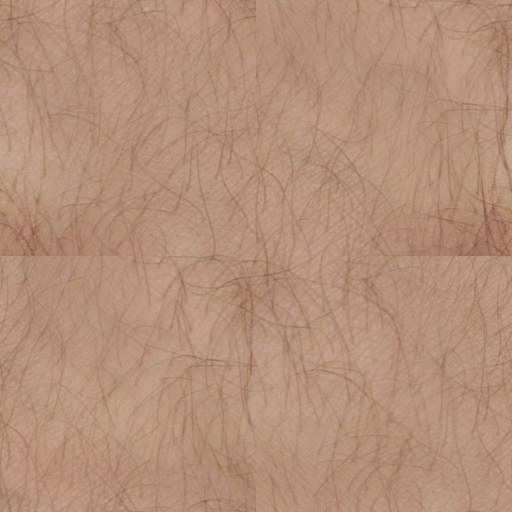
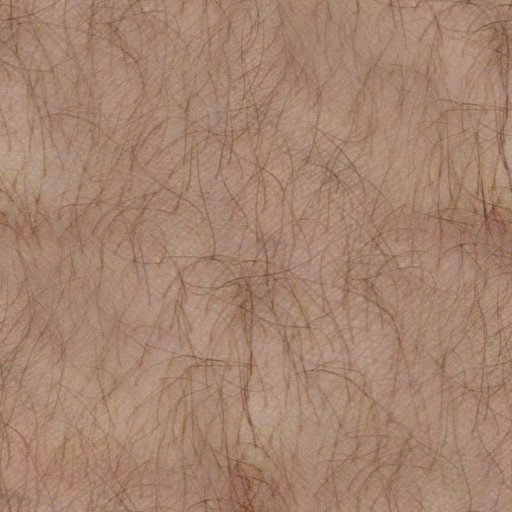
v9.2: piel de las manos sin costuras, con venas y menos brillo; tiendas de campaña tipo iglú, cajas de listones, bidón de fuego y caseta-WC nuevos
Claude-Session: https://claude.ai/code/session_015QNTawu2bc1bZiRqrmohGE

diff --git a/game.js b/game.js
@@ -1711,11 +1711,15 @@ function buildMoeve(){const lot=LOTS.find(l=>l.corner&&l.bk.i===0&&l.bk.j===3&&l
 // =====================================================================
 // BASES: Mercat del Ninot (aliados), escuela en el interior de manzana (aliados) y un Mercadona tomado por bandidos
 // =====================================================================
-defInst('tent',mkG([[(()=>{const g=new THREE.ConeGeometry(1.5,1.6,4);g.rotateY(Math.PI/4);g.translate(0,0.8,0);return g;})(),0xffffff]]),new THREE.MeshLambertMaterial({vertexColors:true}),1,1,true);
+defInst('tent',(()=>{const dome=new THREE.SphereGeometry(1,18,8,0,Math.PI*2,0,Math.PI/2);dome.scale(1.1,1.05,1.35);const ves=new THREE.SphereGeometry(1,10,6,-Math.PI/2,Math.PI,0,Math.PI/2);ves.scale(0.6,0.75,0.55);ves.translate(0,0,1.15);
+  const door=ell(0.42,0.5,0.06,0,0.42,1.66,10);const parts=[[dome,0xffffff],[ves,0xd8d8d8],[door,0x1a1a1a]];for(const a of [Math.PI/4,-Math.PI/4]){const t=new THREE.TorusGeometry(1.12,0.012,4,24,Math.PI);t.rotateY(a);t.scale(1,0.95,1.2);parts.push([t,0x222222]);}
+  for(const [x,z] of [[1.3,1.7],[-1.3,1.7],[1.3,-1.7],[-1.3,-1.7]])parts.push([tube([x*0.75,0.75,z*0.7],[x,0.0,z],0.004,3),0xbbbbbb]);return mkG(parts);})(),pbr(new THREE.MeshStandardMaterial({vertexColors:true,roughness:0.65,metalness:0})),1,1,true);
 defInst('mattress',mkG([[bx(0.9,0.18,1.9,0,0.09,0),0xd8d0c0],[bx(0.6,0.12,0.4,0,0.22,-0.7),0xf0f0f0],[bx(0.85,0.05,1.2,0,0.2,0.3),0x5a6a8a]]),plasticMat,1,1,true);
-defInst('firebarrel',mkG([[cy(0.32,0.3,0.9,0,0.45,0,12),0x5a3a2a],[cy(0.26,0.26,0.05,0,0.88,0,12),0xff7a20]]),paintMat,1,1,true);
-defInst('crate',mkG([[bx(0.9,0.7,0.9,0,0.35,0),0x6b5434],[bx(0.92,0.06,0.92,0,0.68,0),0x5a4528]]),woodPropMat,1,1,true);
-defInst('latrina',mkG([[bx(1.2,2.3,1.2,0,1.15,0),0x5a6a4a],[bx(1.3,0.08,1.3,0,2.34,0),0x3a4a2a],[bx(0.7,1.9,0.03,0,0.95,0.61),0x4a5a3a]]),plasticMat,1,1,true);
+defInst('firebarrel',mkG([[cy(0.29,0.29,0.88,0,0.44,0,16),0x6a3a22],[cy(0.3,0.3,0.03,0,0.14,0,16),0x4a2a18],[cy(0.3,0.3,0.03,0,0.44,0,16),0x4a2a18],[cy(0.3,0.3,0.03,0,0.74,0,16),0x4a2a18],[cy(0.27,0.27,0.02,0,0.86,0,16),0xff8a2a],
+  ...[0,1,2,3,4,5].map(k=>[bx(0.06,0.04,0.12,Math.cos(k)*0.22,0.9,Math.sin(k)*0.22,0,k,0.3),0x2a1a10]),[ell(0.08,0.1,0.06,0.18,0.25,0.24,6),0x1a1008]]),metalMat,1,1,true);
+defInst('crate',mkG([...[0.08,0.3,0.52].flatMap(y=>[[bx(0.9,0.18,0.03,0,y+0.09,0.44),0x7b6440],[bx(0.9,0.18,0.03,0,y+0.09,-0.44),0x6e5838],[bx(0.03,0.18,0.86,0.44,y+0.09,0),0x735c3a],[bx(0.03,0.18,0.86,-0.44,y+0.09,0),0x7b6440]]),
+  ...[-0.42,0.42].flatMap(x=>[[bx(0.06,0.7,0.06,x,0.35,0.42),0x5a4528],[bx(0.06,0.7,0.06,x,0.35,-0.42),0x5a4528]]),[bx(0.86,0.02,0.86,0,0.03,0),0x5a4528],[bx(0.88,0.03,0.2,0,0.71,-0.2),0x6b5434],[bx(0.88,0.03,0.2,0,0.71,0.22),0x7b6440]]),woodPropMat,1,1,true);
+defInst('latrina',mkG([[bx(1.15,2.2,1.15,0,1.1,0),0x2a5a8a],[bx(1.25,0.1,1.25,0,2.25,0),0xd8d8d0],[bx(0.75,1.95,0.04,0,1.0,0.59),0x24507a],[bx(0.1,0.04,0.04,0.28,1.05,0.62),0x111111],[bx(0.2,0.08,0.02,0,1.75,0.615),0xd03020],[cy(0.05,0.05,0.35,0.4,2.4,-0.4,6),0x333333],[bx(0.6,0.03,0.04,0,2.05,0.6),0xd8d8d0]]),plasticMat,1,1,true);
 defInst('mesa',mkG([[bx(1.8,0.05,0.8,0,0.75,0),0x8a6a42],[bx(0.05,0.75,0.05,-0.85,0.37,-0.35),0x555555],[bx(0.05,0.75,0.05,0.85,0.37,-0.35),0x555555],[bx(0.05,0.75,0.05,-0.85,0.37,0.35),0x555555],[bx(0.05,0.75,0.05,0.85,0.37,0.35),0x555555]]),woodPropMat,1,1,true);
 defInst('olla',mkG([[cy(0.25,0.22,0.3,0,0.15,0,12),0x444444],[cy(0.3,0.3,0.03,0,0.0,0,12),0x222222]]),metalMat,1,1,true);
 defInst('canasta',mkG([[cy(0.06,0.06,3.0,0,1.5,0,8),0x555555],[bx(1.2,0.9,0.05,0,3.2,0.2),0xf0f0f0],[tor(0.23,0.015,0,2.95,0.5,0,12),0xd85a20]]),metalMat,1,1,true);
@@ -2320,7 +2324,7 @@ function ejectCasing(gun){gun.userData.port.getWorldPosition(_v);const m=new THR
 let HSIGN=1;
 const handMat=pbr(new THREE.MeshStandardMaterial({color:0xc58d6a,roughness:0.62,metalness:0}));
 // piel de las manos a partir de fotos reales (dorso con vello y venas, palma con líneas); proyectada en el espacio de la mano
-const skinMat=(()=>{const m=pbr(new THREE.MeshStandardMaterial({color:0xffffff,roughness:0.55,metalness:0}));const tb=ltex('skin_back.jpg'),tp=ltex('skin_palm.jpg');
+const skinMat=(()=>{const m=new THREE.MeshStandardMaterial({color:0xd8c4b8,roughness:0.72,metalness:0});m.envMapIntensity=0.3;const tb=ltex('skin_back.jpg'),tp=ltex('skin_palm.jpg');
   m.onBeforeCompile=sh=>{sh.uniforms.tB={value:tb};sh.uniforms.tP={value:tp};
     sh.vertexShader=sh.vertexShader.replace('#include <common>','#include <common>\nvarying vec3 vHP;varying vec3 vHN;').replace('#include <begin_vertex>','#include <begin_vertex>\nvHP=position;vHN=normal;');
     sh.fragmentShader=sh.fragmentShader.replace('#include <common>','#include <common>\nvarying vec3 vHP;varying vec3 vHN;uniform sampler2D tB;uniform sampler2D tP;')

diff --git a/src/39_bases.js b/src/39_bases.js
@@ -1,11 +1,15 @@
 // =====================================================================
 // BASES: Mercat del Ninot (aliados), escuela en el interior de manzana (aliados) y un Mercadona tomado por bandidos
 // =====================================================================
-defInst('tent',mkG([[(()=>{const g=new THREE.ConeGeometry(1.5,1.6,4);g.rotateY(Math.PI/4);g.translate(0,0.8,0);return g;})(),0xffffff]]),new THREE.MeshLambertMaterial({vertexColors:true}),1,1,true);
+defInst('tent',(()=>{const dome=new THREE.SphereGeometry(1,18,8,0,Math.PI*2,0,Math.PI/2);dome.scale(1.1,1.05,1.35);const ves=new THREE.SphereGeometry(1,10,6,-Math.PI/2,Math.PI,0,Math.PI/2);ves.scale(0.6,0.75,0.55);ves.translate(0,0,1.15);
+  const door=ell(0.42,0.5,0.06,0,0.42,1.66,10);const parts=[[dome,0xffffff],[ves,0xd8d8d8],[door,0x1a1a1a]];for(const a of [Math.PI/4,-Math.PI/4]){const t=new THREE.TorusGeometry(1.12,0.012,4,24,Math.PI);t.rotateY(a);t.scale(1,0.95,1.2);parts.push([t,0x222222]);}
+  for(const [x,z] of [[1.3,1.7],[-1.3,1.7],[1.3,-1.7],[-1.3,-1.7]])parts.push([tube([x*0.75,0.75,z*0.7],[x,0.0,z],0.004,3),0xbbbbbb]);return mkG(parts);})(),pbr(new THREE.MeshStandardMaterial({vertexColors:true,roughness:0.65,metalness:0})),1,1,true);
 defInst('mattress',mkG([[bx(0.9,0.18,1.9,0,0.09,0),0xd8d0c0],[bx(0.6,0.12,0.4,0,0.22,-0.7),0xf0f0f0],[bx(0.85,0.05,1.2,0,0.2,0.3),0x5a6a8a]]),plasticMat,1,1,true);
-defInst('firebarrel',mkG([[cy(0.32,0.3,0.9,0,0.45,0,12),0x5a3a2a],[cy(0.26,0.26,0.05,0,0.88,0,12),0xff7a20]]),paintMat,1,1,true);
-defInst('crate',mkG([[bx(0.9,0.7,0.9,0,0.35,0),0x6b5434],[bx(0.92,0.06,0.92,0,0.68,0),0x5a4528]]),woodPropMat,1,1,true);
-defInst('latrina',mkG([[bx(1.2,2.3,1.2,0,1.15,0),0x5a6a4a],[bx(1.3,0.08,1.3,0,2.34,0),0x3a4a2a],[bx(0.7,1.9,0.03,0,0.95,0.61),0x4a5a3a]]),plasticMat,1,1,true);
+defInst('firebarrel',mkG([[cy(0.29,0.29,0.88,0,0.44,0,16),0x6a3a22],[cy(0.3,0.3,0.03,0,0.14,0,16),0x4a2a18],[cy(0.3,0.3,0.03,0,0.44,0,16),0x4a2a18],[cy(0.3,0.3,0.03,0,0.74,0,16),0x4a2a18],[cy(0.27,0.27,0.02,0,0.86,0,16),0xff8a2a],
+  ...[0,1,2,3,4,5].map(k=>[bx(0.06,0.04,0.12,Math.cos(k)*0.22,0.9,Math.sin(k)*0.22,0,k,0.3),0x2a1a10]),[ell(0.08,0.1,0.06,0.18,0.25,0.24,6),0x1a1008]]),metalMat,1,1,true);
+defInst('crate',mkG([...[0.08,0.3,0.52].flatMap(y=>[[bx(0.9,0.18,0.03,0,y+0.09,0.44),0x7b6440],[bx(0.9,0.18,0.03,0,y+0.09,-0.44),0x6e5838],[bx(0.03,0.18,0.86,0.44,y+0.09,0),0x735c3a],[bx(0.03,0.18,0.86,-0.44,y+0.09,0),0x7b6440]]),
+  ...[-0.42,0.42].flatMap(x=>[[bx(0.06,0.7,0.06,x,0.35,0.42),0x5a4528],[bx(0.06,0.7,0.06,x,0.35,-0.42),0x5a4528]]),[bx(0.86,0.02,0.86,0,0.03,0),0x5a4528],[bx(0.88,0.03,0.2,0,0.71,-0.2),0x6b5434],[bx(0.88,0.03,0.2,0,0.71,0.22),0x7b6440]]),woodPropMat,1,1,true);
+defInst('latrina',mkG([[bx(1.15,2.2,1.15,0,1.1,0),0x2a5a8a],[bx(1.25,0.1,1.25,0,2.25,0),0xd8d8d0],[bx(0.75,1.95,0.04,0,1.0,0.59),0x24507a],[bx(0.1,0.04,0.04,0.28,1.05,0.62),0x111111],[bx(0.2,0.08,0.02,0,1.75,0.615),0xd03020],[cy(0.05,0.05,0.35,0.4,2.4,-0.4,6),0x333333],[bx(0.6,0.03,0.04,0,2.05,0.6),0xd8d8d0]]),plasticMat,1,1,true);
 defInst('mesa',mkG([[bx(1.8,0.05,0.8,0,0.75,0),0x8a6a42],[bx(0.05,0.75,0.05,-0.85,0.37,-0.35),0x555555],[bx(0.05,0.75,0.05,0.85,0.37,-0.35),0x555555],[bx(0.05,0.75,0.05,-0.85,0.37,0.35),0x555555],[bx(0.05,0.75,0.05,0.85,0.37,0.35),0x555555]]),woodPropMat,1,1,true);
 defInst('olla',mkG([[cy(0.25,0.22,0.3,0,0.15,0,12),0x444444],[cy(0.3,0.3,0.03,0,0.0,0,12),0x222222]]),metalMat,1,1,true);
 defInst('canasta',mkG([[cy(0.06,0.06,3.0,0,1.5,0,8),0x555555],[bx(1.2,0.9,0.05,0,3.2,0.2),0xf0f0f0],[tor(0.23,0.015,0,2.95,0.5,0,12),0xd85a20]]),metalMat,1,1,true);

diff --git a/src/50_player.js b/src/50_player.js
@@ -139,7 +139,7 @@ function ejectCasing(gun){gun.userData.port.getWorldPosition(_v);const m=new THR
 let HSIGN=1;
 const handMat=pbr(new THREE.MeshStandardMaterial({color:0xc58d6a,roughness:0.62,metalness:0}));
 // piel de las manos a partir de fotos reales (dorso con vello y venas, palma con líneas); proyectada en el espacio de la mano
-const skinMat=(()=>{const m=pbr(new THREE.MeshStandardMaterial({color:0xffffff,roughness:0.55,metalness:0}));const tb=ltex('skin_back.jpg'),tp=ltex('skin_palm.jpg');
+const skinMat=(()=>{const m=new THREE.MeshStandardMaterial({color:0xd8c4b8,roughness:0.72,metalness:0});m.envMapIntensity=0.3;const tb=ltex('skin_back.jpg'),tp=ltex('skin_palm.jpg');
   m.onBeforeCompile=sh=>{sh.uniforms.tB={value:tb};sh.uniforms.tP={value:tp};
     sh.vertexShader=sh.vertexShader.replace('#include <common>','#include <common>\nvarying vec3 vHP;varying vec3 vHN;').replace('#include <begin_vertex>','#include <begin_vertex>\nvHP=position;vHN=normal;');
     sh.fragmentShader=sh.fragmentShader.replace('#include <common>','#include <common>\nvarying vec3 vHP;varying vec3 vHN;uniform sampler2D tB;uniform sampler2D tP;')

diff --git a/index.html b/index.html
@@ -77,6 +77,6 @@ details{margin-top:10px;font-size:13px;color:#bbb;line-height:1.55}summary{curso
   <button class="tb mn" id="t_ok" style="right:40px;top:107px;width:56px">OK</button>
   <button class="tb mn" id="t_back" style="right:40px;top:160px;width:56px">VOLVER</button>
 </div>
-<script type="module" src="game.js?v=9&b=1"></script>
+<script type="module" src="game.js?v=9&b=2"></script>
 </body>
 </html>
